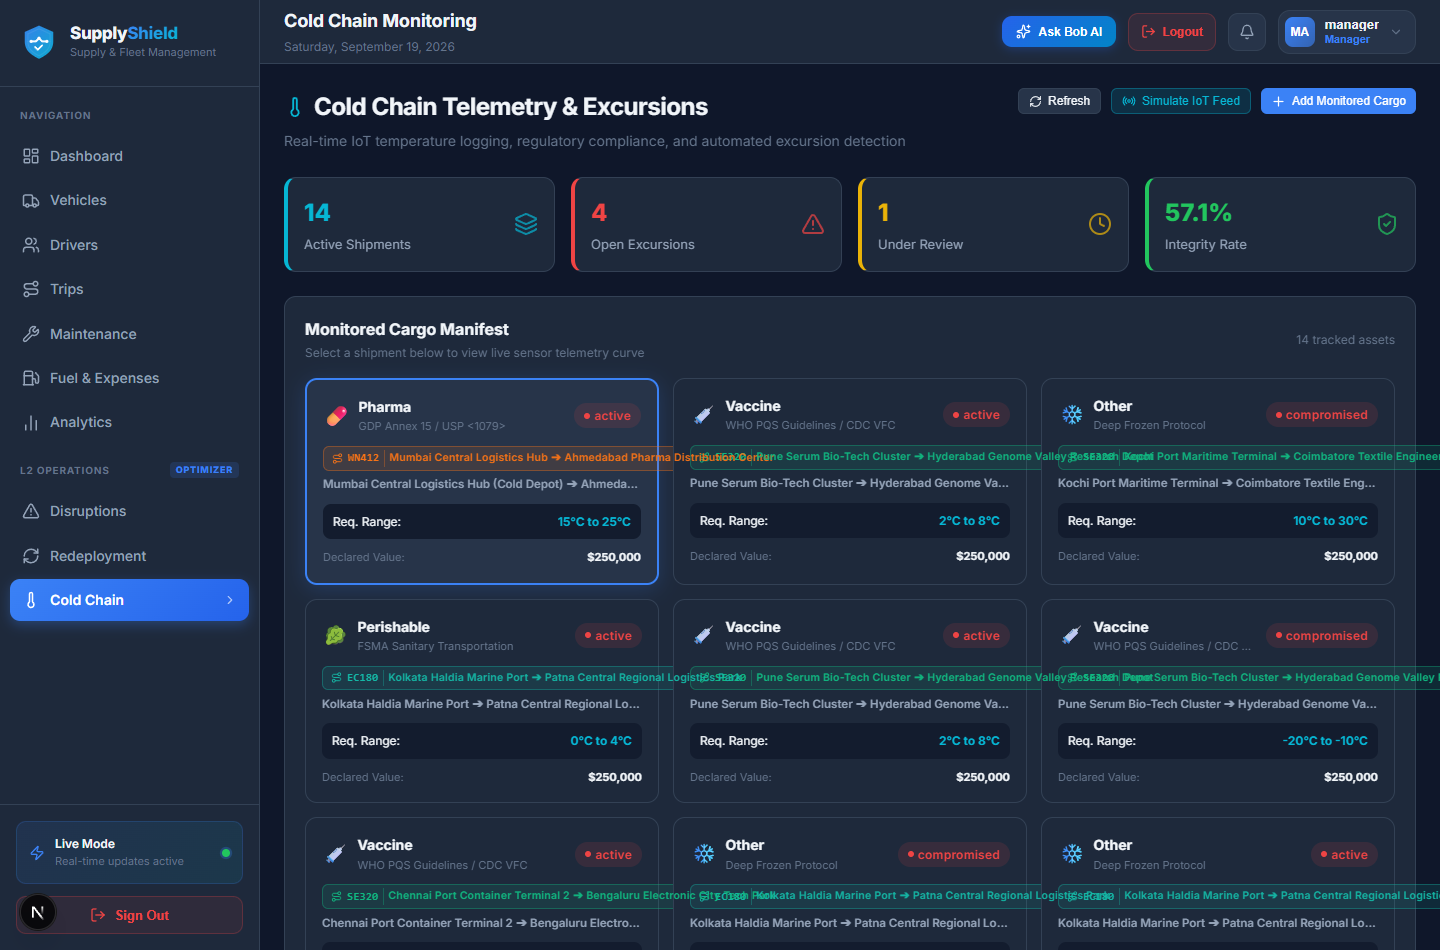
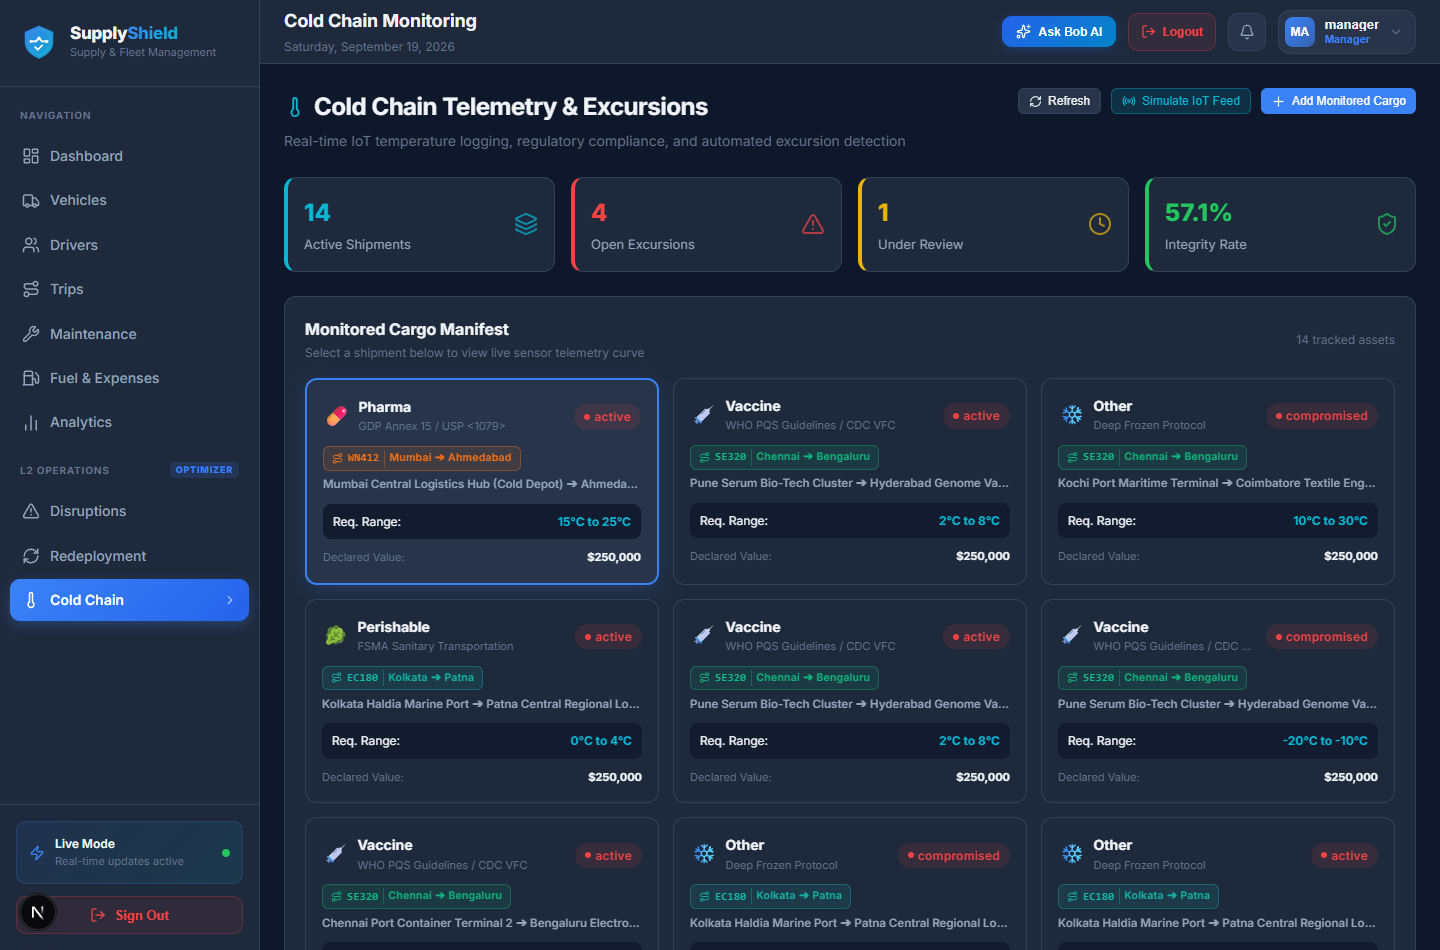
fix(cold-chain): resolve badge text overflow and card overlap in cold chain module

diff --git a/src/app/(dashboard)/cold-chain/page.js b/src/app/(dashboard)/cold-chain/page.js
@@ -441,12 +441,14 @@ export default function ColdChainPage() {
                     display: 'flex',
                     flexDirection: 'column',
                     gap: '10px',
+                    minWidth: 0,
+                    overflow: 'hidden',
                   }}
                 >
                   <div style={{ display: 'flex', alignItems: 'center', justifyContent: 'space-between', gap: '8px' }}>
-                    <div style={{ display: 'flex', alignItems: 'center', gap: '8px', minWidth: 0 }}>
+                    <div style={{ display: 'flex', alignItems: 'center', gap: '8px', minWidth: 0, overflow: 'hidden' }}>
                       <span style={{ fontSize: '20px', flexShrink: 0 }}>{icon}</span>
-                      <div style={{ minWidth: 0 }}>
+                      <div style={{ minWidth: 0, overflow: 'hidden' }}>
                         <div style={{ fontWeight: '700', fontSize: '14px', textTransform: 'capitalize', color: 'var(--text-primary)', whiteSpace: 'nowrap', overflow: 'hidden', textOverflow: 'ellipsis' }}>
                           {s.cargo_type}
                         </div>
@@ -455,19 +457,19 @@ export default function ColdChainPage() {
                         </div>
                       </div>
                     </div>
-                    <StatusBadge status={s.status} />
+                    <div style={{ flexShrink: 0 }}>
+                      <StatusBadge status={s.status} />
+                    </div>
                   </div>
 
-                  <div style={{ display: 'flex', flexDirection: 'column', gap: '4px' }}>
-                    <div>
+                  <div style={{ display: 'flex', flexDirection: 'column', gap: '4px', minWidth: 0, overflow: 'hidden' }}>
+                    <div style={{ minWidth: 0, overflow: 'hidden' }}>
                       <RouteBadge
                         routeId={trip?.route_id || determineRouteId(trip?.origin, trip?.destination)}
-                        origin={trip?.origin}
-                        destination={trip?.destination}
                       />
                     </div>
                     {trip && (
-                      <span
+                      <div
                         style={{
                           fontSize: '11.5px',
                           fontWeight: '600',
@@ -480,7 +482,7 @@ export default function ColdChainPage() {
                         title={`${trip.origin} ➔ ${trip.destination}`}
                       >
                         {trip.origin} ➔ {trip.destination}
-                      </span>
+                      </div>
                     )}
                   </div>
 

diff --git a/src/components/RouteBadge.js b/src/components/RouteBadge.js
@@ -28,12 +28,16 @@ export default function RouteBadge({
         color: badge.color,
         border: `1px solid ${badge.badgeBorder}`,
         whiteSpace: 'nowrap',
+        maxWidth: '100%',
+        boxSizing: 'border-box',
+        overflow: 'hidden',
+        textOverflow: 'ellipsis',
         ...style,
       }}
       title={`${badge.id}: ${badge.places} (${badge.name})`}
     >
       <Route size={11} style={{ flexShrink: 0 }} />
-      <span style={{ fontFamily: 'monospace', fontWeight: '800' }}>{badge.id}</span>
+      <span style={{ fontFamily: 'monospace', fontWeight: '800', flexShrink: 0 }}>{badge.id}</span>
       {showPlaces && badge.places && (
         <span
           style={{
@@ -43,16 +47,19 @@ export default function RouteBadge({
             opacity: 0.95,
             paddingLeft: '4px',
             borderLeft: `1px solid ${badge.badgeBorder}`,
-            display: 'inline-flex',
-            alignItems: 'center',
-            gap: '3px',
+            display: 'inline-block',
+            overflow: 'hidden',
+            textOverflow: 'ellipsis',
+            whiteSpace: 'nowrap',
+            maxWidth: '190px',
+            verticalAlign: 'middle',
           }}
         >
           {badge.places}
         </span>
       )}
       {showName && (
-        <span style={{ fontWeight: '500', fontFamily: 'inherit', color: 'var(--text-secondary)', marginLeft: '2px' }}>
+        <span style={{ fontWeight: '500', fontFamily: 'inherit', color: 'var(--text-secondary)', marginLeft: '2px', overflow: 'hidden', textOverflow: 'ellipsis', whiteSpace: 'nowrap' }}>
           · {badge.name}
         </span>
       )}

diff --git a/src/lib/routes.js b/src/lib/routes.js
@@ -301,8 +301,24 @@ export function cleanPlaceName(locStr) {
   if (!locStr) return '';
   let s = locStr.replace(/\([^)]*\)/g, '').trim();
   s = s.split(',')[0].trim();
-  // Strip trailing "Hub", "Depot", "Distribution Center" if overly long
-  return s || locStr;
+
+  // Match known Indian logistics cities to keep badges clean and compact
+  const majorCities = [
+    'Mumbai', 'Ahmedabad', 'Pune', 'Surat', 'Vadodara', 'Nashik',
+    'Delhi', 'Gurugram', 'Jaipur', 'Chandigarh', 'Agra',
+    'Chennai', 'Bengaluru', 'Hyderabad', 'Kochi', 'Coimbatore',
+    'Kolkata', 'Haldia', 'Patna', 'Ranchi', 'Bhubaneswar',
+    'Nagpur', 'Indore', 'Bhopal', 'Raipur'
+  ];
+  for (const city of majorCities) {
+    if (s.toLowerCase().includes(city.toLowerCase())) {
+      return city;
+    }
+  }
+
+  // Strip trailing facility suffixes if no standard city matched
+  s = s.replace(/(Logistics Hub|Pharma Distribution Center|Distribution Center|Research Depot|Bio-Tech Cluster|Transit Corridor|Maritime Terminal|Cargo Terminal|Container Terminal|Transport Park|Regional Depot|Deepwater Port|Depot|Hub|Park|Cluster)/gi, '').trim();
+  return s || locStr.split(' ')[0] || 'Origin';
 }
 
 /**
